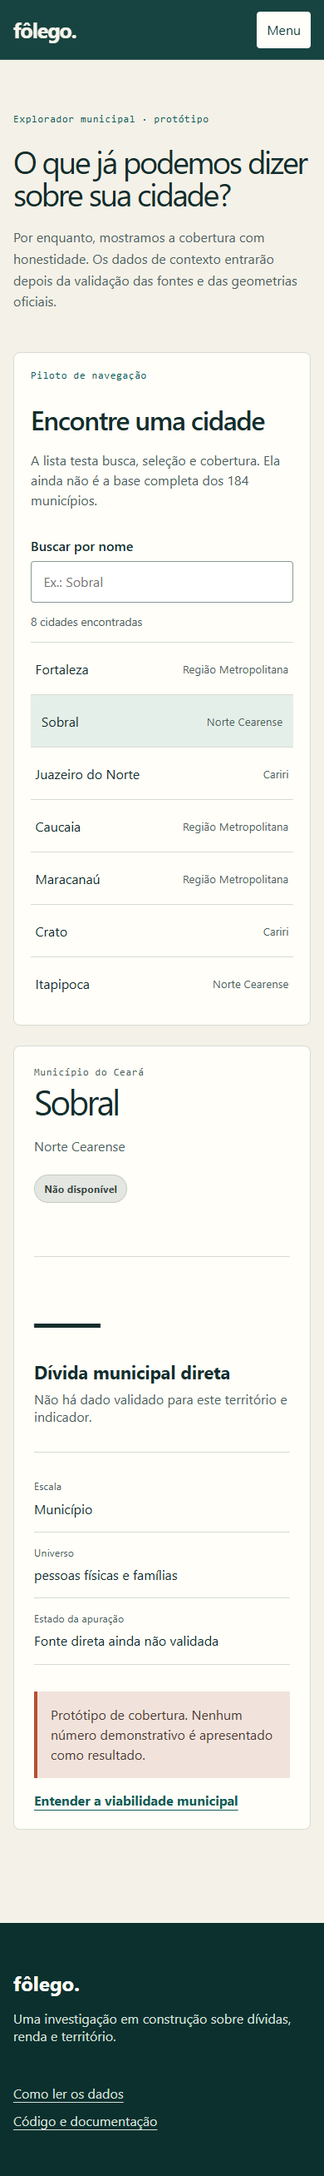
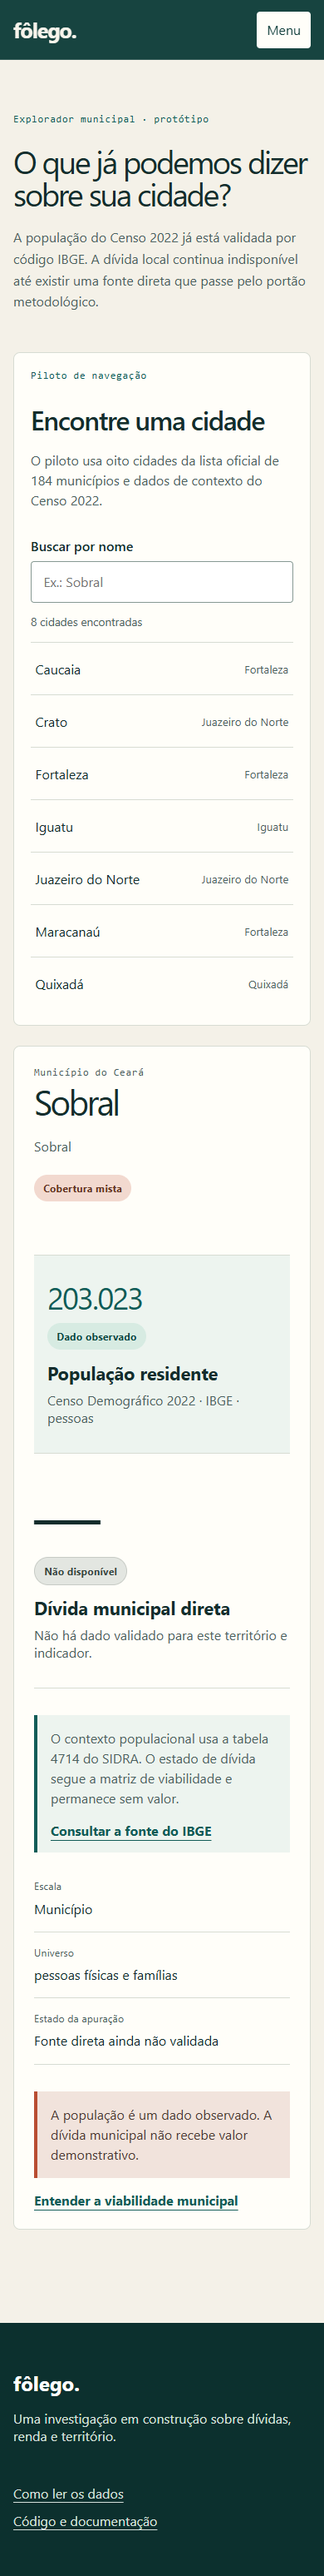
feat: show validated municipal population

diff --git a/app/src/pages/CitiesPage.tsx b/app/src/pages/CitiesPage.tsx
@@ -2,14 +2,18 @@ import { useMemo } from "react";
 import { useSearchParams } from "react-router-dom";
 import { CoveragePanel } from "../components/CoveragePanel";
 import { MunicipalitySearch } from "../components/MunicipalitySearch";
-import { municipalities } from "../data/municipalities";
+import { useMunicipalities } from "../data/useMunicipalities";
 
 export function CitiesPage() {
   const [searchParams, setSearchParams] = useSearchParams();
-  const selectedId = searchParams.get("cidade") ?? municipalities[0].id;
+  const municipalState = useMunicipalities();
+  const selectedSlug = searchParams.get("cidade");
   const selected = useMemo(
-    () => municipalities.find((municipality) => municipality.id === selectedId) ?? municipalities[0],
-    [selectedId],
+    () =>
+      municipalState.municipalities.find(
+        (municipality) => municipality.slug === selectedSlug,
+      ) ?? municipalState.municipalities[0],
+    [municipalState.municipalities, selectedSlug],
   );
 
   return (
@@ -18,22 +22,39 @@ export function CitiesPage() {
         <p className="section-marker">Explorador municipal · protótipo</p>
         <h1>O que já podemos dizer sobre sua cidade?</h1>
         <p>
-          Por enquanto, mostramos a cobertura com honestidade. Os dados de contexto entrarão
-          depois da validação das fontes e das geometrias oficiais.
+          A população do Censo 2022 já está validada por código IBGE. A dívida local continua
+          indisponível até existir uma fonte direta que passe pelo portão metodológico.
         </p>
       </header>
 
-      <div className="city-workspace">
-        <MunicipalitySearch
-          selectedId={selected.id}
-          onSelect={(municipality) => {
-            const next = new URLSearchParams(searchParams);
-            next.set("cidade", municipality.id);
-            setSearchParams(next);
-          }}
-        />
-        <CoveragePanel municipality={selected} />
-      </div>
+      {municipalState.status === "loading" ? (
+        <section className="data-state" aria-live="polite">
+          <h2>Carregando a base municipal</h2>
+          <p>Conferindo códigos e contexto do IBGE.</p>
+        </section>
+      ) : null}
+
+      {municipalState.status === "error" ? (
+        <section className="data-state data-state-error" role="alert">
+          <h2>A base municipal não carregou</h2>
+          <p>{municipalState.error}</p>
+        </section>
+      ) : null}
+
+      {municipalState.status === "ready" && selected ? (
+        <div className="city-workspace">
+          <MunicipalitySearch
+            municipalities={municipalState.municipalities}
+            selectedId={selected.id}
+            onSelect={(municipality) => {
+              const next = new URLSearchParams(searchParams);
+              next.set("cidade", municipality.slug);
+              setSearchParams(next);
+            }}
+          />
+          <CoveragePanel municipality={selected} />
+        </div>
+      ) : null}
     </main>
   );
 }

diff --git a/app/src/components/CoveragePanel.tsx b/app/src/components/CoveragePanel.tsx
@@ -7,8 +7,9 @@ type CoveragePanelProps = {
 };
 
 export function CoveragePanel({ municipality }: CoveragePanelProps) {
-  const observation = municipalDebtCoverage(municipality.id);
+  const observation = municipalDebtCoverage(municipality.slug);
   const state = describeObservation(observation);
+  const population = new Intl.NumberFormat("pt-BR").format(municipality.population_2022);
 
   return (
     <article className="coverage-panel" aria-live="polite">
@@ -18,17 +19,42 @@ export function CoveragePanel({ municipality }: CoveragePanelProps) {
           <h2>{municipality.name}</h2>
           <p>{municipality.region}</p>
         </div>
-        <span className={`status-chip status-${state.tone}`}>{state.label}</span>
+        <span className="status-chip status-partial">Cobertura mista</span>
       </div>
 
-      <div className="coverage-result">
-        <p className="result-symbol" aria-label="Sem valor disponível">
-          —
+      <div className="coverage-results">
+        <section className="coverage-result coverage-result-observed">
+          <p className="result-value">{population}</p>
+          <div>
+            <span className="status-chip status-available">Dado observado</span>
+            <h3>População residente</h3>
+            <p>Censo Demográfico 2022 · IBGE · pessoas</p>
+          </div>
+        </section>
+
+        <section className="coverage-result">
+          <p className="result-symbol" aria-label="Sem valor disponível">
+            —
+          </p>
+          <div>
+            <span className={`status-chip status-${state.tone}`}>{state.label}</span>
+            <h3>Dívida municipal direta</h3>
+            <p>{state.description}</p>
+          </div>
+        </section>
+      </div>
+
+      <div className="coverage-source">
+        <p>
+          O contexto populacional usa a tabela 4714 do SIDRA. O estado de dívida segue a matriz
+          de viabilidade e permanece sem valor.
         </p>
-        <div>
-          <h3>Dívida municipal direta</h3>
-          <p>{state.description}</p>
-        </div>
+        <a
+          className="text-link"
+          href="https://servicodados.ibge.gov.br/api/v3/agregados/4714/periodos/2022/variaveis/93?localidades=N6[N3[23]]"
+        >
+          Consultar a fonte do IBGE
+        </a>
       </div>
 
       <dl className="coverage-metadata">
@@ -47,7 +73,7 @@ export function CoveragePanel({ municipality }: CoveragePanelProps) {
       </dl>
 
       <p className="fixture-note">
-        Protótipo de cobertura. Nenhum número demonstrativo é apresentado como resultado.
+        A população é um dado observado. A dívida municipal não recebe valor demonstrativo.
       </p>
       <a className="text-link" href={observation.source_url}>
         Entender a viabilidade municipal

diff --git a/app/src/data/useMunicipalities.ts b/app/src/data/useMunicipalities.ts
@@ -1,0 +1,46 @@
+import { useEffect, useState } from "react";
+import type { Municipality, MunicipalContextFile } from "./municipalities";
+
+type MunicipalitiesState =
+  | { status: "loading"; municipalities: Municipality[]; error: null }
+  | { status: "ready"; municipalities: Municipality[]; error: null }
+  | { status: "error"; municipalities: Municipality[]; error: string };
+
+export function useMunicipalities(): MunicipalitiesState {
+  const [state, setState] = useState<MunicipalitiesState>({
+    status: "loading",
+    municipalities: [],
+    error: null,
+  });
+
+  useEffect(() => {
+    const controller = new AbortController();
+
+    fetch("/data/municipal_context.json", { signal: controller.signal })
+      .then((response) => {
+        if (!response.ok) {
+          throw new Error(`A base municipal respondeu com status ${response.status}.`);
+        }
+        return response.json() as Promise<MunicipalContextFile>;
+      })
+      .then((payload) => {
+        const pilot = payload.municipalities.filter((municipality) => municipality.pilot);
+        if (pilot.length !== 8) {
+          throw new Error("O piloto municipal não contém as oito cidades esperadas.");
+        }
+        setState({ status: "ready", municipalities: pilot, error: null });
+      })
+      .catch((error: unknown) => {
+        if (error instanceof DOMException && error.name === "AbortError") return;
+        setState({
+          status: "error",
+          municipalities: [],
+          error: error instanceof Error ? error.message : "Não foi possível carregar a base municipal.",
+        });
+      });
+
+    return () => controller.abort();
+  }, []);
+
+  return state;
+}

diff --git a/app/src/components/MunicipalitySearch.tsx b/app/src/components/MunicipalitySearch.tsx
@@ -1,7 +1,8 @@
 import { useId, useMemo, useState } from "react";
-import { municipalities, type Municipality } from "../data/municipalities";
+import type { Municipality } from "../data/municipalities";
 
 type MunicipalitySearchProps = {
+  municipalities: Municipality[];
   selectedId?: string;
   onSelect: (municipality: Municipality) => void;
 };
@@ -13,7 +14,11 @@ function normalize(value: string) {
     .toLocaleLowerCase("pt-BR");
 }
 
-export function MunicipalitySearch({ selectedId, onSelect }: MunicipalitySearchProps) {
+export function MunicipalitySearch({
+  municipalities,
+  selectedId,
+  onSelect,
+}: MunicipalitySearchProps) {
   const [query, setQuery] = useState("");
   const inputId = useId();
 
@@ -23,7 +28,7 @@ export function MunicipalitySearch({ selectedId, onSelect }: MunicipalitySearchP
     return municipalities.filter((municipality) =>
       normalize(municipality.name).includes(normalizedQuery),
     );
-  }, [query]);
+  }, [municipalities, query]);
 
   return (
     <section className="search-panel" aria-labelledby={`${inputId}-title`}>
@@ -31,8 +36,8 @@ export function MunicipalitySearch({ selectedId, onSelect }: MunicipalitySearchP
         <p className="section-marker">Piloto de navegação</p>
         <h2 id={`${inputId}-title`}>Encontre uma cidade</h2>
         <p>
-          A lista testa busca, seleção e cobertura. Ela ainda não é a base completa dos 184
-          municípios.
+          O piloto usa oito cidades da lista oficial de 184 municípios e dados de contexto do
+          Censo 2022.
         </p>
       </div>
 

diff --git a/app/src/styles.css b/app/src/styles.css
@@ -659,6 +659,36 @@ a {
   border-bottom: 1px solid var(--line);
 }
 
+.coverage-results {
+  margin-top: 4rem;
+  border-top: 1px solid var(--line);
+}
+
+.coverage-results .coverage-result {
+  margin-top: 0;
+  border-top: 0;
+}
+
+.coverage-result-observed {
+  padding-inline: 1rem;
+  background: #edf4ef;
+}
+
+.result-value {
+  min-width: 7ch;
+  margin: 0;
+  color: var(--brand);
+  font-size: clamp(2.3rem, 5vw, 4.5rem);
+  font-variant-numeric: tabular-nums;
+  letter-spacing: -0.05em;
+  line-height: 1;
+}
+
+.coverage-result .status-chip {
+  display: inline-block;
+  margin-bottom: 0.85rem;
+}
+
 .result-symbol {
   margin: 0;
   font-size: 5rem;
@@ -673,6 +703,35 @@ a {
 .coverage-result p:last-child {
   margin: 0;
   color: var(--muted);
+}
+
+.coverage-source {
+  margin: 2rem 0;
+  padding: 1rem;
+  background: #edf4ef;
+  border-left: 4px solid var(--brand);
+}
+
+.coverage-source p {
+  margin-top: 0;
+  color: var(--muted);
+  line-height: 1.5;
+}
+
+.data-state {
+  width: min(100%, var(--content-max));
+  margin: 0 auto 4rem;
+  padding: 2rem var(--gutter);
+  background: var(--surface);
+  border: 1px solid var(--line);
+}
+
+.data-state h2 {
+  margin-top: 0;
+}
+
+.data-state-error {
+  border-left: 4px solid var(--accent);
 }
 
 .coverage-metadata {

diff --git a/app/src/data/municipalities.ts b/app/src/data/municipalities.ts
@@ -1,18 +1,23 @@
 export type Municipality = {
   id: string;
+  slug: string;
   name: string;
   region: string;
+  population_2022: number;
+  pilot: boolean;
 };
 
-// Lista de navegação do piloto de UX. Não contém resultados analíticos.
-export const municipalities: Municipality[] = [
-  { id: "fortaleza", name: "Fortaleza", region: "Região Metropolitana" },
-  { id: "sobral", name: "Sobral", region: "Norte Cearense" },
-  { id: "juazeiro-do-norte", name: "Juazeiro do Norte", region: "Cariri" },
-  { id: "caucaia", name: "Caucaia", region: "Região Metropolitana" },
-  { id: "maracanau", name: "Maracanaú", region: "Região Metropolitana" },
-  { id: "crato", name: "Crato", region: "Cariri" },
-  { id: "itapipoca", name: "Itapipoca", region: "Norte Cearense" },
-  { id: "quixada", name: "Quixadá", region: "Sertões Cearenses" },
-];
+export type MunicipalContextFile = {
+  schema_version: string;
+  generated_at: string;
+  sources: Array<{
+    source_id: string;
+    label: string;
+    url: string;
+    period?: string;
+    metric?: string;
+    unit?: string;
+  }>;
+  municipalities: Municipality[];
+};
 
